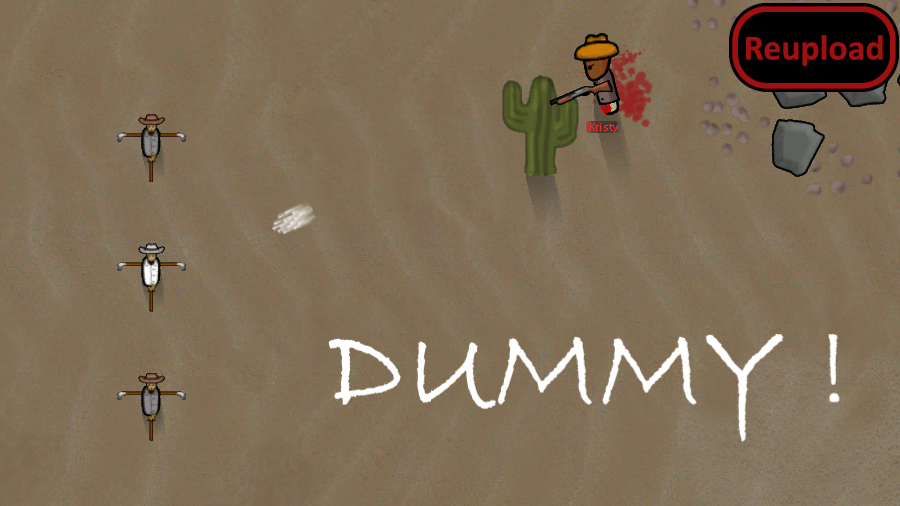
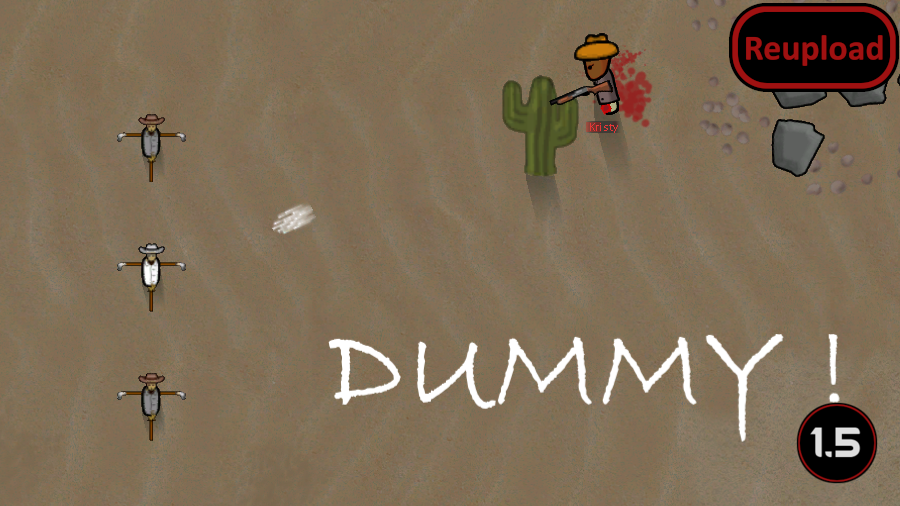
Mod updated for 1.5 and passed autotests

Changed region(s): [[0.8711, 0.8004, 0.9956, 0.9783]]

diff --git a/README.md b/README.md
@@ -43,11 +43,13 @@ English
 
 -  See if the the error persists if you just have this mod and its requirements active.
 -  If not, try adding your other mods until it happens again.
--  Post your error-log using https://steamcommunity.com/workshop/filedetails/?id=818773962]HugsLib and command Ctrl+F12
+-  Post your error-log using https://steamcommunity.com/workshop/filedetails/?id=818773962]HugsLib or the standalone https://steamcommunity.com/sharedfiles/filedetails/?id=2873415404]Uploader and command Ctrl+F12
 -  For best support, please use the Discord-channel for error-reporting.
 -  Do not report errors by making a discussion-thread, I get no notification of that.
 -  If you have the solution for a problem, please post it to the GitHub repository.
+-  Use https://github.com/RimSort/RimSort/releases/latest]RimSort to sort your mods
 
 
 
+https://steamcommunity.com/sharedfiles/filedetails/changelog/2069465324]![Image](https://img.shields.io/github/v/release/emipa606/Dummy?label=latest%20version&style=plastic&color=9f1111&labelColor=black)
 
